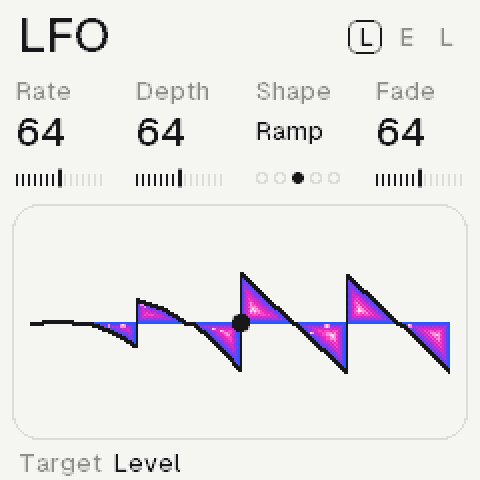
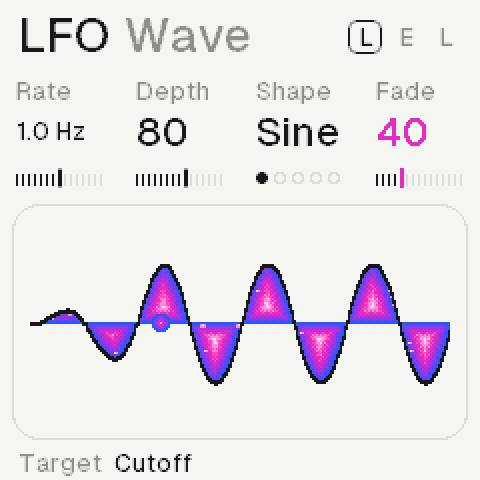
The manual, the README and the site for the sound's new controls
The layer, the voice, the drive, the LFO (its own article), Off for the
spaces, PRESETS on the pages of types, chord keys on the roll, the octave on
release; the screens of the pages that changed.

diff --git a/web/manual.html b/web/manual.html
@@ -50,6 +50,7 @@
       <a href="#spaces">Reverbs and echo</a>
       <a href="#filter">Filter and envelope</a>
       <a href="#sounds">The sounds</a>
+      <a href="#lfo">The LFO</a>
       <p class="mgroup">Reference</p>
       <a href="#midi">MIDI</a>
       <a href="#next">Not built yet</a>
@@ -105,19 +106,19 @@
           <p><b>FX</b><span>Effects: colour, media, motion, space</span></p>
           <p><b>SEL</b><span>Filter</span></p>
           <p><b>ENV</b><span>Amp: the envelope and the level</span></p>
-          <p><b>LFO</b><span>LFO (drawn; its sound comes later)</span></p>
-          <p><b>EDIT</b><span>Sound: the recording, start, loop, tune</span></p>
+          <p><b>LFO</b><span>LFO: a slow wave on the pitch, cutoff, level, pan or start</span></p>
+          <p><b>EDIT</b><span>Sound: the recording; again, its layer; again, the voice</span></p>
           <p><b>GLO</b><span>Global: the reverb, the echo, the theme</span></p>
           <p><b>HOME</b><span>Home: levels, sends, tempo; the scene</span></p>
           <p><b>ARP</b><span>Chord: the progression; the keys play chords</span></p>
           <p><b>SEQ</b><span>Roll: this synth's own sequence</span></p>
-          <p><b>SAVE</b><span>Held: the songs (saving comes later)</span></p>
+          <p><b>SAVE</b><span>The song into its slot; held, the songs</span></p>
           <p><b>PLAY, REC</b><span>Play the rolls and chords; record the keys</span></p>
-          <p><b>OCT&minus; OCT+</b><span>The octave; with a note held, delete or copy</span></p>
+          <p><b>OCT&minus; OCT+</b><span>The octave as you let go; with a note held, delete or copy</span></p>
         </div>
         <div class="mt">
           <p><b>SELECT</b><span>The synth</span></p>
-          <p><b>PRESETS</b><span>Its sound, on any page</span></p>
+          <p><b>PRESETS</b><span>Its sound; on FX, Filter and GLO, the row's type</span></p>
           <p><b>ALGORITHM</b><span>The rows on FX and GLO; the foot's value</span></p>
           <p><b>K1 to K4</b><span>The four values on top</span></p>
           <p><b>MASTER</b><span>The volume</span></p>
@@ -129,7 +130,7 @@
         <p class="msub">Three, the same on every page.</p>
         <div class="mt">
           <p><b>Tap, again</b><span>A page button opens its page; again, its next row</span></p>
-          <p><b>Hold + ALGO</b><span>Holding the page's button, ALGORITHM changes a row's type</span></p>
+          <p><b>Hold + ALGO</b><span>Holding the page's button, ALGORITHM changes a row's type; PRESETS does too</span></p>
           <p><b>Hold, then act</b><span>A held key or chord: the knobs change it, OCT&minus; deletes, OCT+ copies</span></p>
         </div>
       </article>
@@ -152,11 +153,11 @@
         <p class="msub">The keys play the synth SELECT picks; PRESETS steps through its sounds.</p>
         <div class="mt">
           <p><b>SELECT</b><span>Synth 1, 2 or 3; the head shows S F G, the current boxed</span></p>
-          <p><b>PRESETS</b><span>The next recording, then your saved sounds, on any page</span></p>
-          <p><b>OCT&minus; OCT+</b><span>Two octaves down or up</span></p>
+          <p><b>PRESETS</b><span>The next recording, then your saved sounds (on FX, Filter and GLO: the type)</span></p>
+          <p><b>OCT&minus; OCT+</b><span>Two octaves down or up, as you let go</span></p>
           <p><b>Both held</b><span>The landscape, full screen; a knob, a page or both again: back</span></p>
           <p><b>On Chord</b><span>Each key plays a chord instead</span></p>
-          <p><b>Keys: All</b><span>Chords on every page but the roll (Chord, its Keys row)</span></p>
+          <p><b>Keys: All</b><span>Chords on every page (Chord, its Keys row); on the roll they are written</span></p>
         </div>
       </article>
 
@@ -175,7 +176,9 @@
           <p><b>PLAY + REC</b><span>Records the keys from their nearest step</span></p>
           <p><b>SEQ + OCT&minus;</b><span>Twice: clears this synth's roll</span></p>
           <p><b>HOME + OCT&minus;</b><span>Twice: clears all three</span></p>
+          <p><b>Keys: All</b><span>A key writes its chord at the cursor; the foot names the chord there</span></p>
         </div>
+        <p class="note">A roll written to is heard: a synth that played the chords plays its roll from then (SEQ + ALGORITHM puts it back). A roll cleared is silent, the chords it played too.</p>
       </article>
 
       <article id="chords" data-group="Playing">
@@ -269,7 +272,7 @@
 
       <article id="effects" data-group="Sound">
         <h1>Effects</h1>
-        <p class="msub">Four rows a synth. ALGORITHM moves through them; hold FX and turn it to change a row's effect.</p>
+        <p class="msub">Four rows a synth. ALGORITHM moves through them; PRESETS, or FX held and ALGORITHM, changes a row's effect.</p>
         <figure class="mfig"><img src="img/screens/06_fx.png" alt="FX" width="240" height="240"><figcaption>Each row names its effect.</figcaption></figure>
         <div class="mt">
           <p><b>Colour</b><span>Saturate, crush, lossy (a codec's smear), noise</span></p>
@@ -282,8 +285,9 @@
 
       <article id="spaces" data-group="Sound">
         <h1>Reverbs and echo</h1>
-        <p class="msub">Shared by the three, on GLO. Hold GLO and turn ALGORITHM to change the type.</p>
+        <p class="msub">Shared by the three, on GLO. PRESETS, or GLO held and ALGORITHM, changes the type.</p>
         <div class="mt">
+          <p><b>Off</b><span>The first of each: none of it, nothing returned</span></p>
           <p><b>Room</b><span>Short, close</span></p>
           <p><b>Hall</b><span>Wide, long</span></p>
           <p><b>Space</b><span>Bright, nearly endless</span></p>
@@ -297,10 +301,11 @@
 
       <article id="filter" data-group="Sound">
         <h1>Filter and envelope</h1>
-        <p class="msub">Every voice has both. Hold SEL and turn ALGORITHM for the filter's type.</p>
+        <p class="msub">Every voice has both. PRESETS, or SEL held and ALGORITHM, for the filter's type.</p>
         <div class="mt">
           <p><b>Types</b><span>LP24, LP12, HP, BP, notch, peak, vowel, off</span></p>
-          <p><b>Filter knobs</b><span>Cutoff, resonance, envelope, drift</span></p>
+          <p><b>Filter knobs</b><span>Cutoff, resonance, envelope, drive</span></p>
+          <p><b>Drive</b><span>Into the filter: thicker, its resonance rounded</span></p>
           <p><b>Vowel</b><span>The cutoff glides through u, o, a, e, i</span></p>
           <p><b>Amp knobs</b><span>Attack, decay, sustain, release; ALGORITHM the level</span></p>
         </div>
@@ -314,8 +319,22 @@
           <p><b>Start</b><span>Where it starts: past its attack, for a soft one</span></p>
           <p><b>Loop</b><span>Full, or once through</span></p>
           <p><b>Tune</b><span>In semitones; ALGORITHM fine, in cents</span></p>
+          <p><b>Layer</b><span>EDIT again: a second recording under it, blend, tune (octaves and fifths), loop, tone; ALGORITHM which</span></p>
+          <p><b>Voice</b><span>EDIT again: glide from the last note, velocity (soft notes quieter and darker), track (the cutoff follows the key), grit (22 or 11 kHz)</span></p>
           <p><b>Scenes</b><span>Peaks, a lake, a coast, the night, a city from a bedroom, a 2000s desk</span></p>
           <p><b>Names</b><span>A plant of each sound's landscape, in Latin: Soldanella on the peaks, Nymphaea on the lake</span></p>
+        </div>
+      </article>
+
+      <article id="lfo" data-group="Sound">
+        <h1>The LFO</h1>
+        <p class="msub">One a synth, a slow wave on what ALGORITHM picks: pitch, cutoff, level, pan, or where a note starts.</p>
+        <div class="mt">
+          <p><b>Rate</b><span>0.05 to 20 Hz</span></p>
+          <p><b>Depth</b><span>Off, to nearly four octaves on the cutoff</span></p>
+          <p><b>Shape</b><span>Sine, triangle, ramp, square, random</span></p>
+          <p><b>Fade</b><span>From nothing to its depth, from a phrase's first note</span></p>
+          <p><b>Sync row</b><span>LFO again: free, or 4 bars to 1/16 on the tempo; restarted by a phrase's first note, or free</span></p>
         </div>
       </article>
 
@@ -335,11 +354,11 @@
 
       <article id="next" data-group="Reference">
         <h1>Not built yet</h1>
-        <p class="msub">On the pages already, coming in the next versions.</p>
+        <p class="msub">Coming in the next versions.</p>
         <div class="mt">
-          <p><b>LFO</b><span>Its sound (the page draws it already)</span></p>
-          <p><b>Layer</b><span>A second recording under a sound</span></p>
           <p><b>Undo</b><span>GLO and OCT&minus;, sixteen steps back</span></p>
+          <p><b>Short loops</b><span>A shorter loop inside a sound's own</span></p>
+          <p><b>More effects</b><span>New types on the rows and the spaces</span></p>
         </div>
       </article>
 

diff --git a/web/index.html b/web/index.html
@@ -102,8 +102,8 @@
   <!-- 04 inside: what a sound goes through, each in its light -->
   <section class="g strip" id="engines"><span class="no">04</span><span class="lb">Inside</span></section>
   <section class="g art">
-    <figure class="eng e1"><div class="img"><canvas class="heat" data-heat="img/art/flow.png"></canvas></div><figcaption><b>Sample</b><span>Its own recordings, looped and played from flash.</span></figcaption></figure>
-    <figure class="eng e2"><div class="img"><canvas class="heat" data-heat="img/art/pool.png"></canvas></div><figcaption><b>Filter</b><span>Eight shapes, a warm low-pass to a vowel.</span></figcaption></figure>
+    <figure class="eng e1"><div class="img"><canvas class="heat" data-heat="img/art/flow.png"></canvas></div><figcaption><b>Sample</b><span>Its own recordings, looped, one layered under another.</span></figcaption></figure>
+    <figure class="eng e2"><div class="img"><canvas class="heat" data-heat="img/art/pool.png"></canvas></div><figcaption><b>Filter</b><span>Eight shapes and a drive, low-pass to vowel.</span></figcaption></figure>
     <figure class="eng e3"><div class="img"><canvas class="heat" data-heat="img/art/drift.png"></canvas></div><figcaption><b>Colour</b><span>Saturate, crush, codec and noise.</span></figcaption></figure>
     <figure class="eng e4"><div class="img"><canvas class="heat" data-heat="img/art/rise.png"></canvas></div><figcaption><b>Media</b><span>Tape, cassette and VHS, wow and all.</span></figcaption></figure>
     <figure class="eng e5"><div class="img"><canvas class="heat" data-heat="img/art/twin.png"></canvas></div><figcaption><b>Motion</b><span>Chorus, vibrato and drift.</span></figcaption></figure>

diff --git a/README.md b/README.md
@@ -18,17 +18,21 @@ dithered, for what is lit.
 
 - **The sound.**
   - The 64 recordings are built in, like a rompler, with nothing to load.
-  - A filter with eight shapes, and an envelope.
+  - A filter with eight shapes and a drive, an envelope, and an LFO on the pitch, cutoff, level, pan or start, free
+    or on the tempo.
+  - A layer: a second recording under a sound. Glide, velocity, the cutoff following the key, and grit (the voice at
+    22 or 11 kHz).
   - Per synth: Colour (saturate, crush, codec, noise), Media (tape, cassette, VHS) and Motion (chorus, vibrato,
     drift).
-  - Shared spaces: six reverbs (room, hall, space, haze, bloom, lofi), and a tape echo or grains.
+  - Shared spaces: six reverbs (room, hall, space, haze, bloom, lofi), and a tape echo or grains; each can be off.
 - **The music.**
   - Three synths, each with a piano roll of up to 64 steps and eight patterns of its own.
   - Sixteen scenes say which pattern each synth plays, and switch on the bar with HOME held and a white key.
   - A song arranges the scenes, up to 128 steps of 1 to 8 bars, typed in or recorded live.
 - **The harmony.**
   - A chord machine with sixteen progressions and four of your own, voicings, strum and rhythms.
-  - The keys play chords on any page: sevenths, triads, ninths, add9, sus2, sus4, 6/9 or power.
+  - The keys play chords on any page: sevenths, triads, ninths, add9, sus2, sus4, 6/9 or power; on the roll they
+    write them.
   - Each synth can play the chords, follow the key, the chord or the root, or harmonize another synth's notes.
 - **The rest.**
   - MIDI in and out over USB (and in on the TRS jack): notes by synth channel, the clock in or out.
